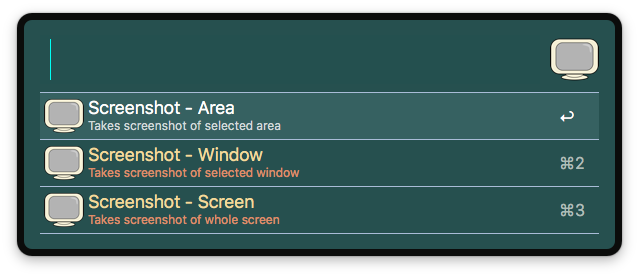
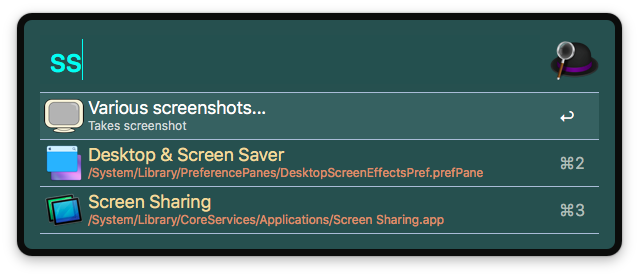
Readme (#1)
* Update README.md

* workflow screenshots added

* Screenshots updated

* Update README.md

* Update README.md

* Update README.md

* Update README.md

* more screenshots added

* Update README.md

* Update README.md

* Update README.md

* More screenshots added

* Update README.md

* Screenshot updated

* Version updated

diff --git a/README.md b/README.md
@@ -1,2 +1,49 @@
 # alfred-various-screenshots
-Alfred 3 plugin for taking various screenshots.
+[Alfred 3][1] workflow for taking various screenshots.
+
+## Installation
+1) Install [alfred-various-screenshots][2] wokflow.
+2) All further updates are handled automatically.
+
+## Usage
+In Alfred, type `ss`, which stands for ScreenShot and initiates a submenu which offers three options.
+
+1) Screenshot - Area
+2) Screenshot - Screen
+3) Screenshot - Window
+
+![Alfred menu screenshot](doc/images/alfred-various-screenshots.png?raw=true "")
+![Alfred submenu screenshot](doc/images/alfred-various-screenshots-submenu.png?raw=true "")
+
+
+By default, the screenshot is stored in a file located at your `~/Desktop` directory.
+This could be overriden, either by pressing the <kbd>⌘</kbd> key, or <kbd>⌥</kbd> key.
+
+The first one - <key>⌘</key> - instructs workflow to put a screenshot to clipboard.
+The second one - <key>⌥</key> - shares a screenshots via Dropbox and stores a sharing link to clipboard.
+
+Screenshots files will be named according to the following pattern `screenshot_%Y-%m-%d_%H-%M-%S.png`
+
+           Y       Year in full form (e.g., 2006).
+           m       Numeric month, a number from 1 to 12.
+           d       Day, a number from 1 to 31.
+           H       Hour, a number from 0 to 23.
+           M       Minutes, a number from 0 to 59.
+           S       Seconds, a number from 0 to 59.
+           
+### Dropbox
+There is no need to install a Dropbox software to you MacOS. The only requirement is to log into the [web Dropbox account][3] and create an access token for the workflow.
+
+![Dropbox App Creation](doc/images/dropbox-app-create.png?raw=true "")
+
+------------------------------
+
+![Dropbox App Key Creation](doc/images/dropbox-app-key.png?raw=true "")
+
+Such generated access token shall be placed to the workflow `DropboxAccessToken` variable.
+
+![Alfre Variable](doc/images/alfred-various-screenshots-variable.png?raw=true "")
+
+[1]: https://www.alfredapp.com/
+[2]: https://github.com/vookimedlo/alfred-various-screenshots/releases/latest
+[3]: https://www.dropbox.com/developers/apps
